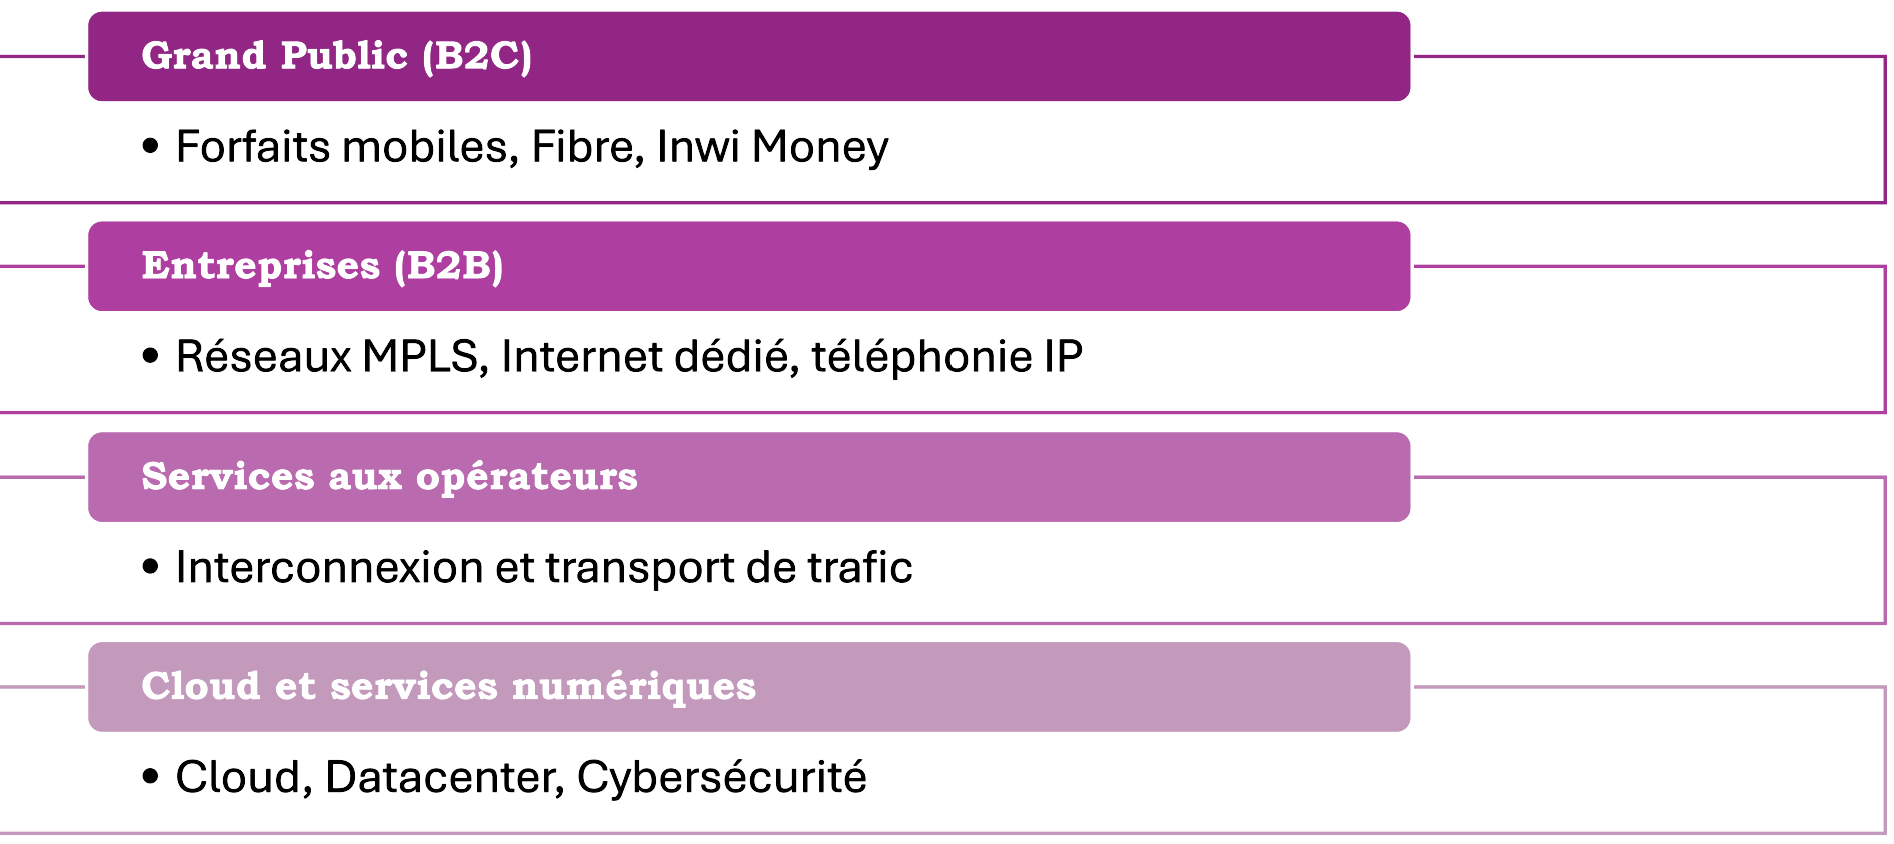
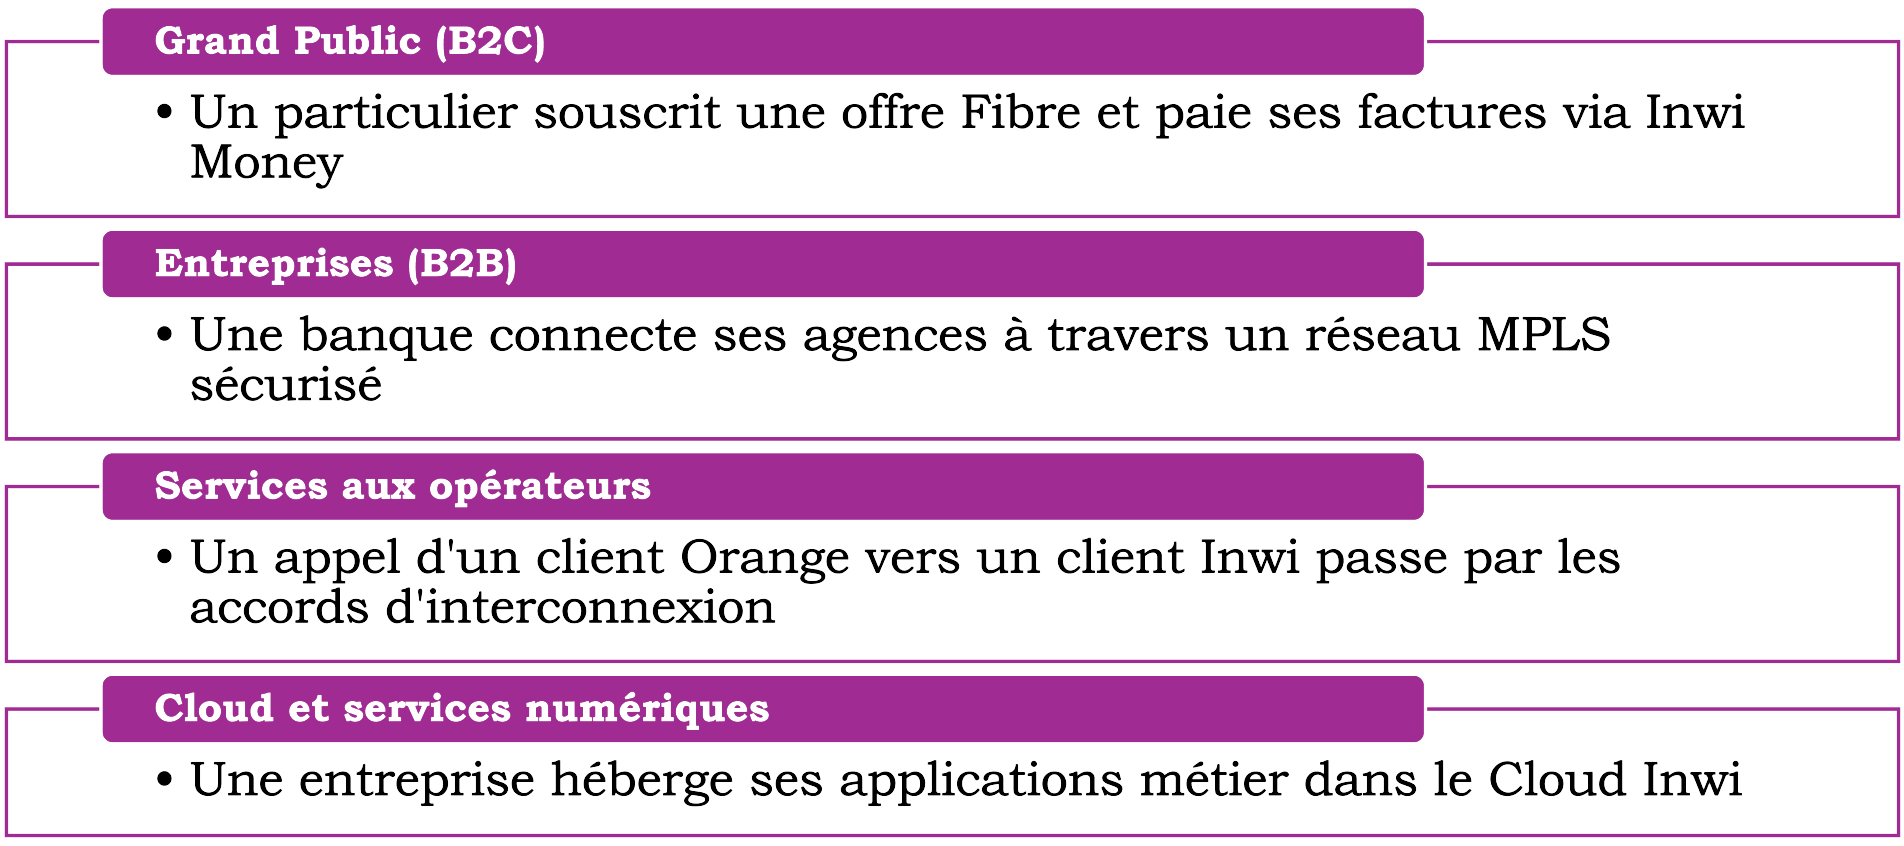
Updates from Overleaf

diff --git a/main.tex b/main.tex
@@ -23,13 +23,13 @@
 \section{Contexte général}
 
 \subsection{Présentation de l'entreprise}
-\begin{frame}{Présentation de l'entreprise}
+\begin{frame}{Présentation de l'entreprise - Historique}
     \begin{figure}
         \centering
         \includegraphics[width=1\linewidth]{chronologie.png}
     \end{figure}
 \end{frame}
-\begin{frame}{Présentation de l'entreprise}
+\begin{frame}{Présentation de l'entreprise - Activités}
 \begin{figure}
     \centering
     \includegraphics[width=1\linewidth]{activites.png}
@@ -79,14 +79,43 @@
 \end{frame}
 
 \section{Gestion des incidents}
-
-\begin{frame}{Gestion des incidents}
+\begin{frame}{Gestion des incidents - Alerte et Incident}
+    \begin{columns}[c] % [c] = centré verticalement ; [T] pour aligner par le haut
+        % --- Colonne gauche : le schéma ---
+        \begin{column}{0.50\textwidth}
+            \begin{figure}
+                \centering
+                \includegraphics[width=\linewidth]{symptomes.png}
+            \end{figure}
+        \end{column}
+        % --- Colonne droite : l'exemple réel ---
+        \begin{column}{0.50\textwidth}
+            \footnotesize
+            \begin{block}{Exemple : hôte \texttt{ubuntu-target} éteint}
+                Une panne réelle injectée : l'hôte
+                \texttt{ubuntu-target} (192.168.10.130) est
+                volontairement éteint. Centreon détecte les ressources
+                en défaut et génère \textbf{cinq alertes} :
+                \begin{enumerate}
+                    \item Vérification d'hôte (\textit{ping})
+                    \item Vérification de service \textit{Ping} dédiée
+                    \item Trois sondes SNMP \textit{Load}
+                    \item \textit{Swap}
+                    \item \textit{Memory}
+                \end{enumerate}
+                \vspace{0.3em}
+                Un \textbf{seul incident source} à l'origine de toutes ces
+                alertes : d'où la nécessité de les \textbf{corréler}.
+            \end{block}
+        \end{column}
+    \end{columns}
+\end{frame}
+\begin{frame}{Gestion des incidents selon ITIL}
     \begin{figure}
         \centering
         \includegraphics[width=1\linewidth]{process.png}
     \end{figure}
 \end{frame}
-
 
 \section{Conception}
 